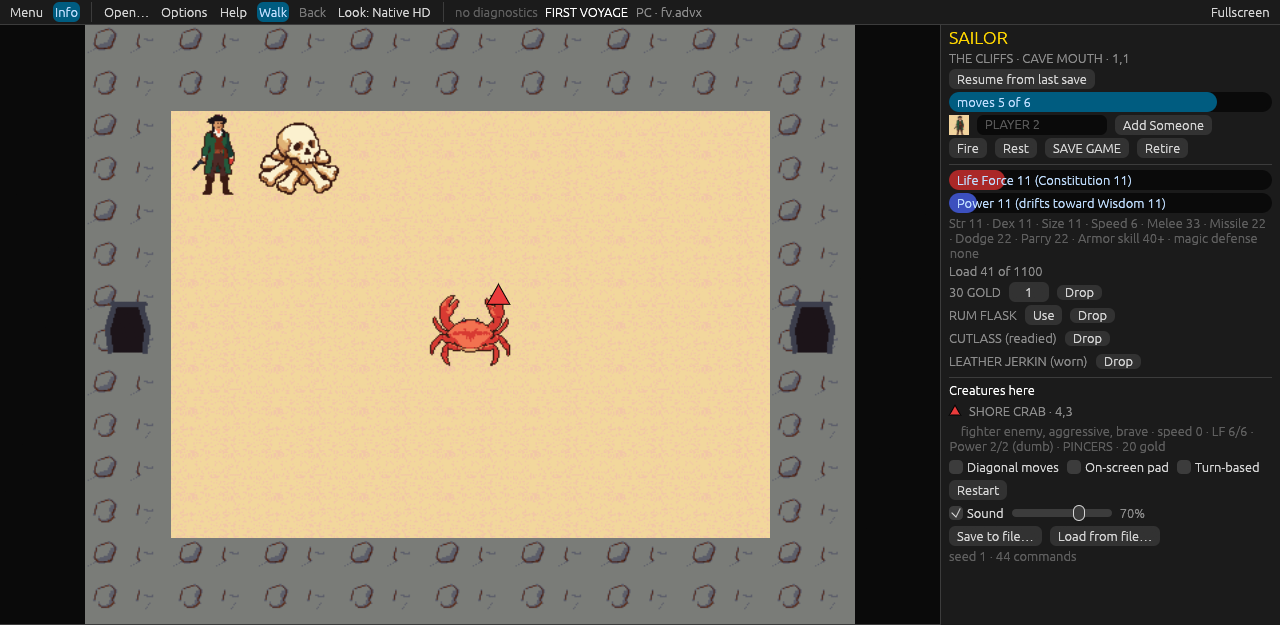
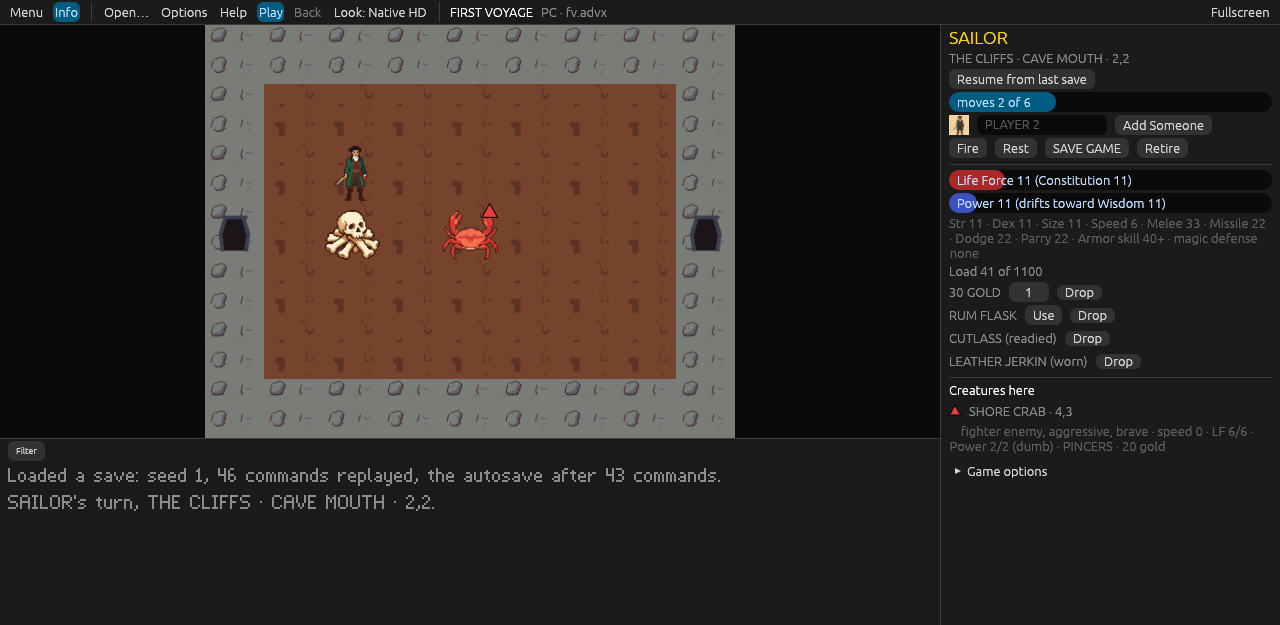
First Voyage after a playthrough: the trader's notice just inside the door and the logbook just inside the hollow, each met before the counter or the chest (the chest could be taken without the spell lesson); the logbook's gift is a loose page that goes once read, so no second chant; both caves floo

diff --git a/README.md b/README.md
@@ -28,9 +28,9 @@ These screenshots are from *First Voyage*, drawn in our own pirate art.
 
 | | |
 | --- | --- |
-| ![A pirate on a wooden dock, a notice on the boards and a door to the trader](docs/images/walk-dock.png) | ![The trader's store: goods on the floor, the player's gold and the store buttons](docs/images/store.png) |
+| ![A pirate on a wooden dock, a notice on the boards and a door to the trader](docs/images/walk-dock.png) | ![The trader's store: goods on shelves cut into the wall, a door at each side, the player's gold and the store buttons](docs/images/store.png) |
 | **Walking.** Arrow keys, mouse, touch pad or a gamepad. The panel on the right shows your ratings and what you carry. | **Stores.** Walk up to a shelf to see its price, then buy or sell. |
-| ![A pirate in a sandy cave facing a red shore crab, with the crab's ratings in the side panel](docs/images/fight.png) | ![The end-of-adventure window: You found the chest of coin!](docs/images/ending.png) |
+| ![A pirate in a muddy cave facing a red shore crab, with the crab's ratings in the side panel](docs/images/fight.png) | ![The end-of-adventure window: You found the chest of coin!](docs/images/ending.png) |
 | **Fights.** Every creature in the room is listed with its temper, speed and weapon. | **The end.** *First Voyage* takes under five minutes. |
 
 ![The world map of First Voyage in Explore mode, with its terrain list](docs/images/inspector-world.png)
